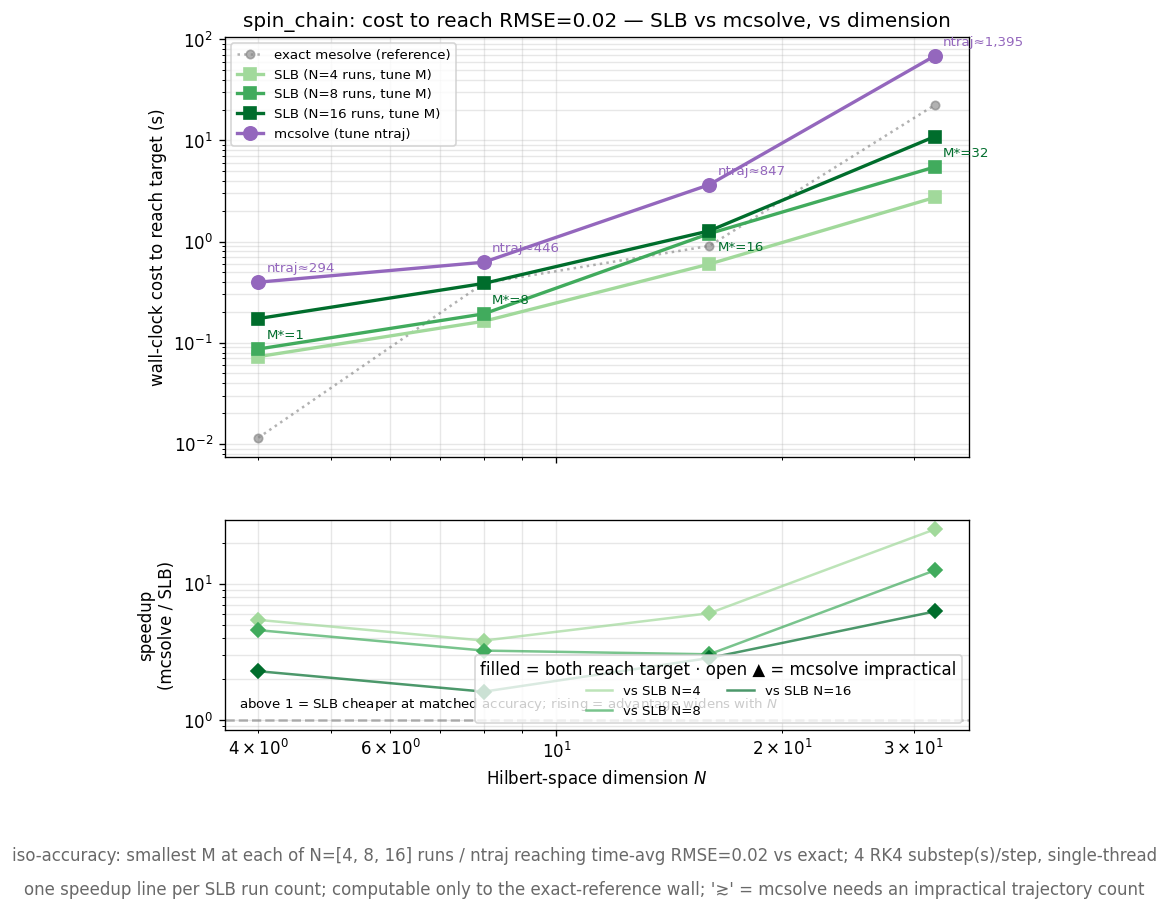
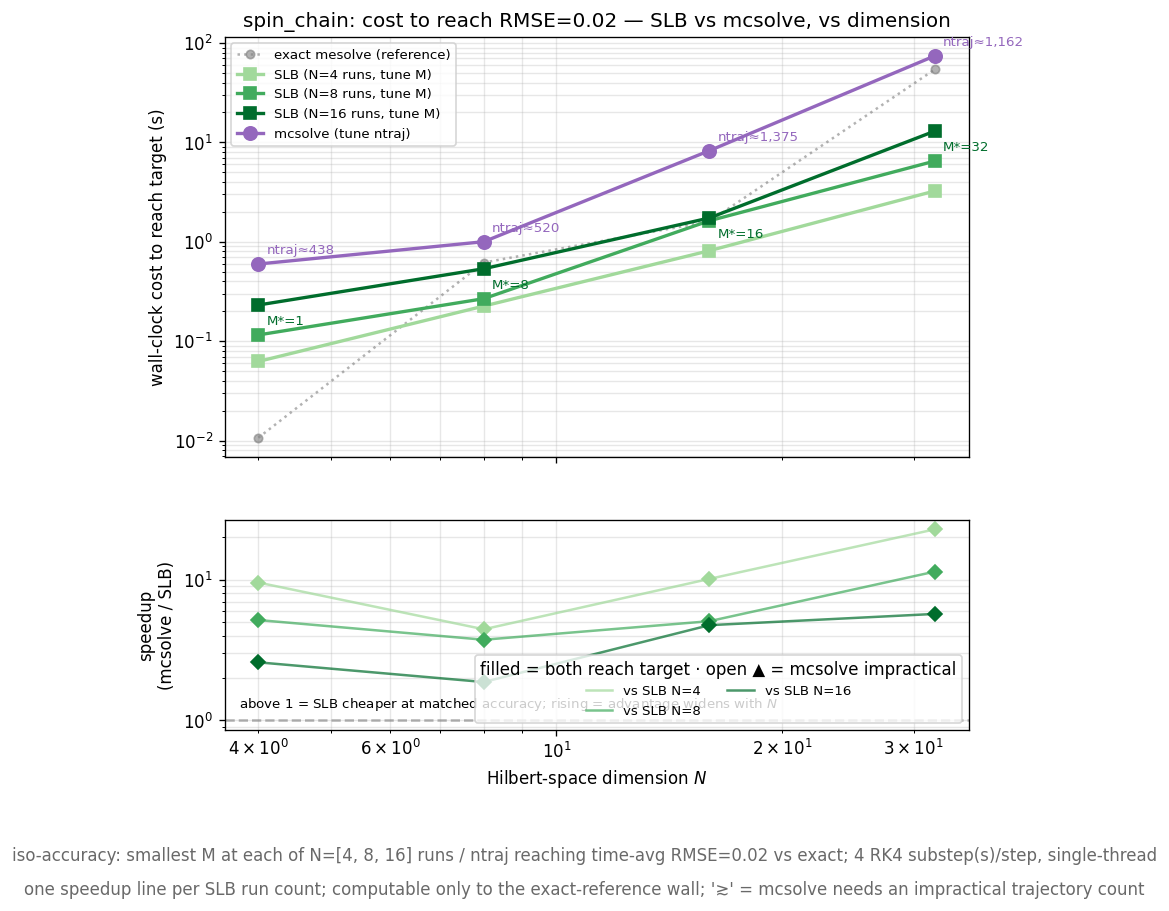
Update benchmark results and figures

diff --git a/benchmarks/BENCHMARKS.md b/benchmarks/BENCHMARKS.md
@@ -305,6 +305,18 @@ job:
   integrator check (§6) still reports a single **mid-relaxation time
   $t=2.5$**, where one representative instant suffices.
 
+**Why time-averaged RMSE, plainly.** A stochastic estimate carries two errors —
+a systematic **bias** (its mean sits off the true answer) and a statistical
+**scatter** (a single run fluctuates about that mean). Any single number that
+hides one of them can be gamed: a method can look accurate by trading bias for
+variance or the reverse. The RMSE $\sqrt{\text{bias}^2+\text{SEM}^2}$ refuses that
+trade — it counts both at once — and the time-average reports the *typical* total
+error across the whole relaxation instead of one cherry-picked instant. That is
+why it is the metric wherever two methods are compared head-to-head (Results 3
+and 4); the per-$M$ and per-dimension self-scaling checks (§6), which only ask
+"how fast does *this* method's error shrink", use the simpler max-over-time or
+single-time numbers noted above.
+
 (The dynamics run to $t=5$ in natural units — $J=1$ for the chain, $\omega_0=1$
 for the oscillator — over 40 output points; $t=2.5$ is the mid-relaxation
 sample, where the energy has substantially decayed but not yet saturated.)
@@ -327,15 +339,17 @@ So a single reported SLB point is built from `n_realizations` full
 density-matrix solves of $M$ operators each — a total of $M\times$
 `n_realizations` random draws. The values used here:
 
-| figure | `M` | `n_realizations` | outer repeats (for error bars) |
+| figure | `M` | `n_realizations` | error bars |
 |---|---|---|---|
-| cost scaling (Result 2) | 2, 4, 8 | 8 | 1 |
-| accuracy (Result 1) | system-dependent | 32 | 1 |
-| frontier (Result 3) | 1, 2, 4, 8, 16, 32 | 8 / 16 / 32 | — (error bar = $S/\sqrt{N}$) |
+| accuracy (Result 1) | system-dependent | 32 | $\pm1$ std band |
+| cost scaling (Result 2) | 8 (iso-accuracy sweeps `M`) | 1 (cost) / 16 (RMSE) | — |
+| frontier (Result 3) | 1, 2, 4, 8, 16, 32 | 8 / 16 / 32 | $S/\sqrt{N}$ |
+| iso-cost vs dim (Result 4) | swept to target ($\le 128$) | 4 / 8 / 16 | mcsolve via $S/\sqrt{\texttt{ntraj}}$ fit |
 
 **`mcsolve` has one level of sampling:** a single reported point is `ntraj`
-independent trajectories (swept over `[50, 200, 1000]` in scaling and
-`[10, 50, 200, 1000]` in the frontier), run single-threaded so its wall-clock
+independent trajectories (swept over `[10, 50, 200, 1000]` in the frontier
+(Result 3), and sampled at `[100, 200, 400]` to fit the cost projection in
+Result 4), run single-threaded so its wall-clock
 time is the full sequential cost of all trajectories — matching SLB's
 single-threaded realization loop. Its frontier error bar is its own trajectory
 spread $S/\sqrt{\texttt{ntraj}}$ — the same quantity SLB's bar measures over its
@@ -471,8 +485,9 @@ blows up with $N$.
 
 **Iso-accuracy — the cost to hold a *fixed* accuracy (third curve).** To answer
 "fast *at what accuracy*", the iso-accuracy curve chooses, at each $N$, the
-smallest bundle size $M^\ast$ that brings the RMSE to a fixed target (here
-$\text{RMSE}=0.02$, measured against the exact solve) and plots the cost of *that*
+smallest bundle size $M^\ast$ — the first on a geometric grid $M = 1, 2, 4,
+\ldots$ whose 16-run time-averaged RMSE reaches a fixed target (here
+$\text{RMSE}=0.02$, measured against the exact solve) — and plots the cost of *that*
 solve. The required $M^\ast$ grows with $N$ (annotated in the bottom panel —
 roughly $M^\ast\propto N$ on the chain), so this curve is steeper than fixed-$M$:
 holding accuracy costs about one extra power of $N$. But it still sits far below
@@ -546,7 +561,8 @@ operator-heavy regime is exactly where a trajectory method's per-trajectory
 variance explodes and bundling does not.
 
 **SLB is shown at three averaging levels** ($N=4, 8, 16$ runs), each re-optimizing
-`M` for the target. A less obvious point falls out: *fewer* runs are often
+`M` for the target: for each level, $M^\ast$ is the smallest bundle size on the
+grid $1, 2, 4, \ldots, 128$ whose $N$-run time-averaged RMSE first reaches $0.02$. A less obvious point falls out: *fewer* runs are often
 *cheaper*, because with fewer runs you compensate with a larger `M`, and a few
 well-converged high-`M` runs beat many low-`M` ones for a fixed target. The
 speedup panel plots one line per level so nothing is hidden; the cheapest level
